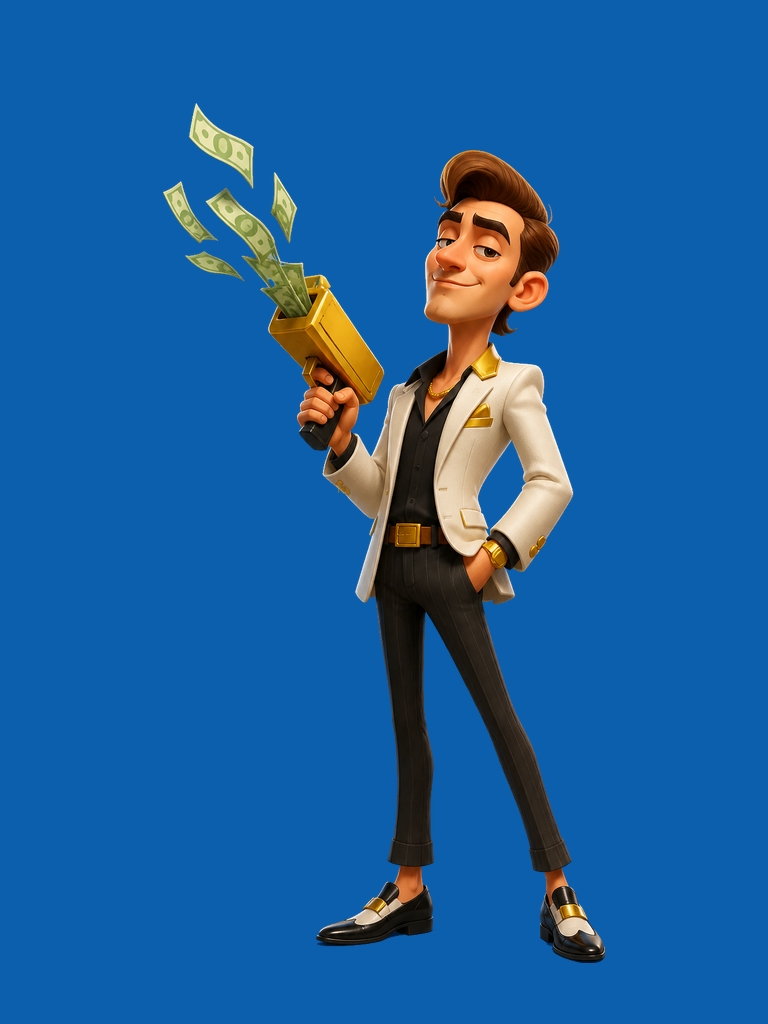
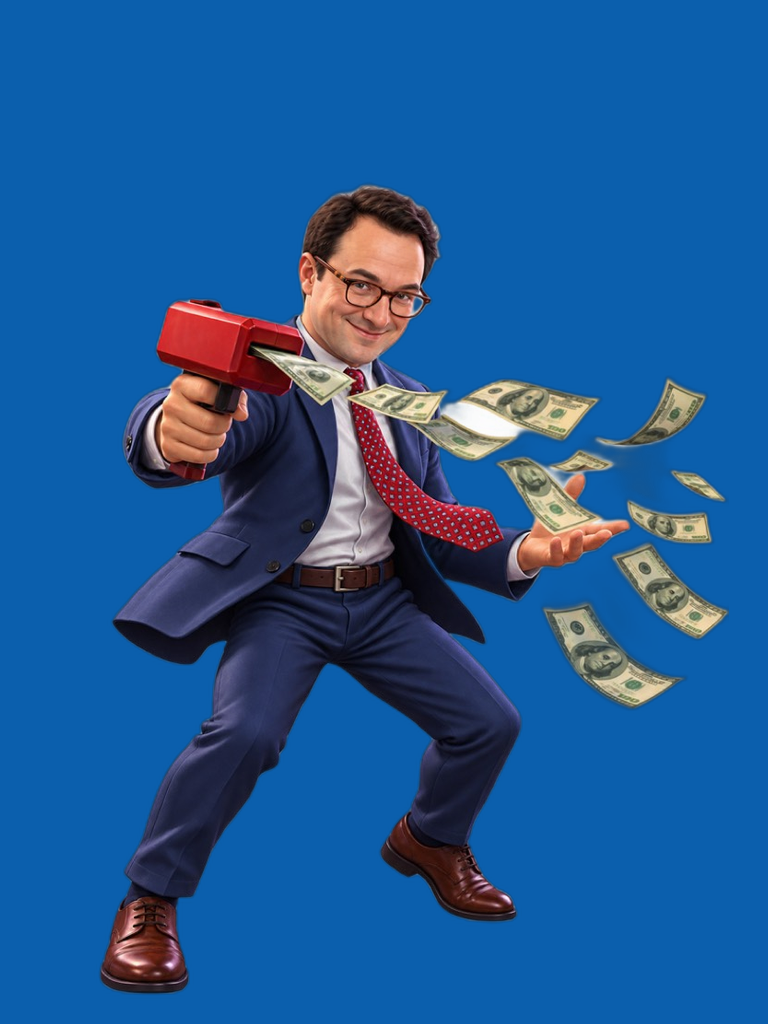
feat(philroyale): update Scott card and battlefield art
Cash-gun suit pose on shared blue card background; matching troop
front/back. Cash Gun fires from the sprite gun (muzzle flash only).

diff --git a/philroyale/src/characters/ScottModel.tsx b/philroyale/src/characters/ScottModel.tsx
@@ -13,7 +13,7 @@ type Props = {
   portrait?: boolean
 }
 
-/** Scott — skinny rich guy; Cash Gun money launcher. */
+/** Scott — navy suit Cash Gun; sprite gun matches battlefield bills. */
 export function ScottModel({ anim, facing, attackId, portrait }: Props) {
   return (
     <PhotoTroop
@@ -24,12 +24,11 @@ export function ScottModel({ anim, facing, attackId, portrait }: Props) {
       anim={anim}
       facing={facing}
       portrait={portrait}
-      objectPos="50% 12%"
+      objectPos="50% 14%"
       gait="jog"
       attack={anim === 'attack' && attackId === 'cashGun' ? 'shoot' : 'none'}
-      spriteLegs
-      legColor="#1e2a4a"
-      shoeColor="#2a1810"
+      spriteLegs={false}
+      gunsInSprite
     />
   )
 }
